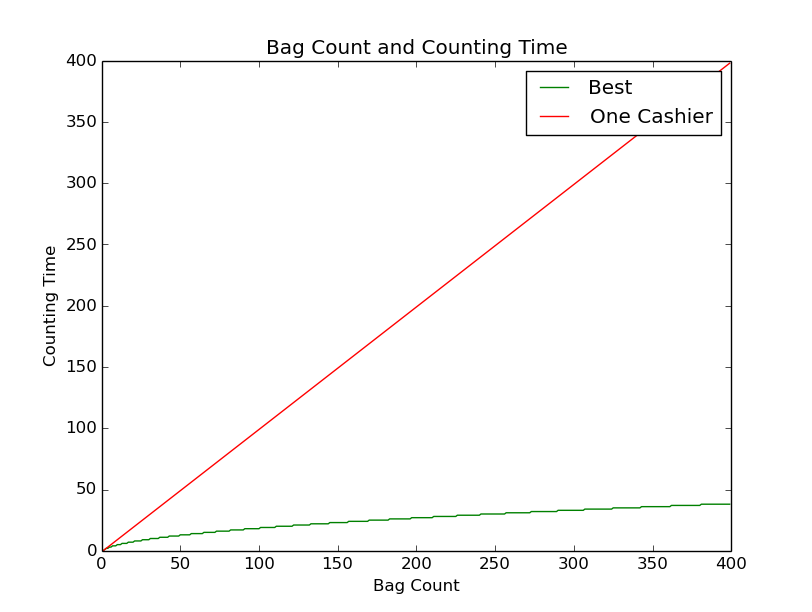
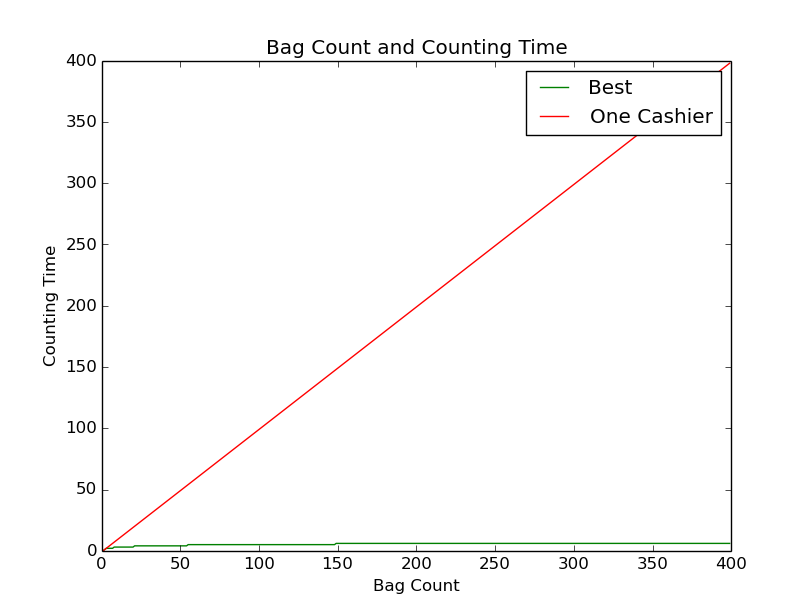
finish P5.png

Changed region(s): [[0.1232, 0.8382, 0.8929, 0.9003], [0.6466, 0.8072, 0.8929, 0.8382]]

diff --git a/HW0/P5/P5.py b/HW0/P5/P5.py
@@ -1,0 +1,18 @@
+import matplotlib.pyplot as plt
+import numpy as np
+import math
+
+def fx(N):
+    return math.ceil(np.log(N))
+
+v_fx = np.vectorize(fx)
+
+x = np.arange(1, 400)
+
+plt.plot(x, v_fx(x), color="green", label="Best")
+plt.plot(x, x-1, color="red", label="One Cashier")
+plt.title("Bag Count and Counting Time")
+plt.xlabel("Bag Count")
+plt.ylabel("Counting Time")
+plt.legend()
+plt.show()
